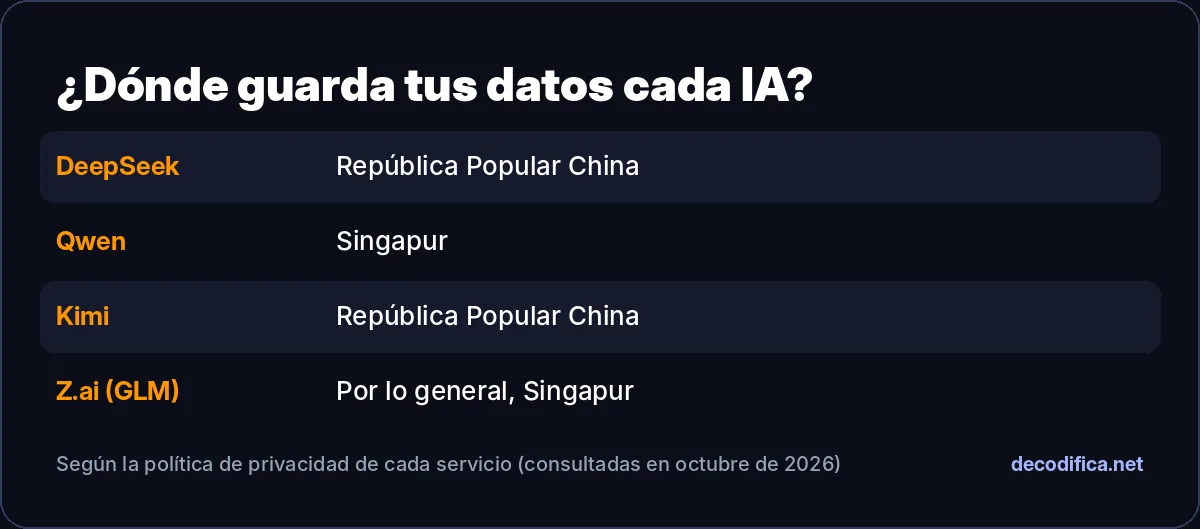
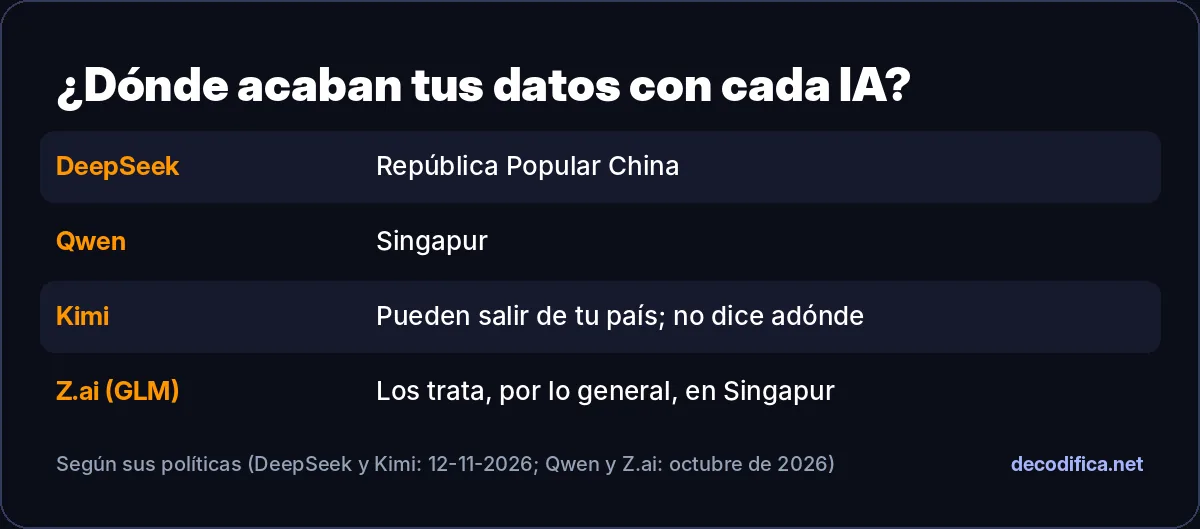
Jueves 12-11: arreglos del juez de fuentes (presentaciones, DeepSeek y Kimi), repaso y _ESTADO.md
Claude-Session: https://claude.ai/code/session_012nLXgGQ4VznBiRpxUvYC78

diff --git a/docs/repaso-jueves/2026-11-12.md b/docs/repaso-jueves/2026-11-12.md
@@ -174,7 +174,71 @@ datos:
 
 ## Juez de fuentes (docs/jueces/fuentes.md)
 
-PENDIENTE
+Tres subagentes que no escribieron los cambios abrieron todas las fuentes, uno por página. Respuesta a cada punto
+(los menores, agrupados):
+
+**IA para presentaciones** (15 puntos; varios son de texto antiguo que hoy no se había tocado)
+1. *Gamma Plus da 1.500 créditos al mes, no 1.000 (dos sitios).* **Arreglado** (comprobado en la ayuda de Gamma).
+2. *Los precios de Gamma sí se leen con el navegador sin pantalla (Plus 9 $, Pro 18 $, Ultra 90 $ al mes, anual).*
+   **No, porque** gamma.app/pricing tiene una comprobación anti-robots y no se salta (el sistema de permisos lo bloquea,
+   con razón). Sin poder abrirla en esta ejecución, esos precios no se ponen (regla 2). Sí se añade, de su ayuda, el
+   límite del plan gratis: hasta 10 diapositivas por petición.
+3. *Beautiful.ai sí genera contenido («Unlimited AI content generation», «AI writing assistant»).* **Arreglado** en el
+   resumen, su apartado, su «pega» y la última pregunta frecuente.
+4. *La columna «Idioma» de la tabla no la respalda ninguna fuente (y Beautiful.ai y Plus AI dicen lo contrario).*
+   **Arreglado**: columna quitada. El idioma se trata en su pregunta frecuente, sin cifras.
+5. *Gamma incrusta las fuentes en el .pptx; no habla de animaciones.* **Arreglado**: ahora dice lo que cambia según su
+   ayuda (degradados, esquinas de tablas, sin patrón de diapositivas), en «Limitaciones» y en la pregunta de PowerPoint.
+6. *Frases que dan a entender una prueba propia y títulos de gancho* («menos impresionante que Gamma», «esperas treinta
+   segundos», «Lo que NO te dicen», «Tabla comparativa honesta», «Cuándo SÍ vale la pena», «la diferencia entre un deck
+   aceptable y uno que impresiona»). **Arreglado**.
+7. *Tome cerró en abril de 2025, sin día 30 en las fuentes.* **Arreglado**.
+8. *Beautiful.ai Team: «40 $ por usuario» en sus preguntas y «40 $ con 3 usuarios incluidos» en la tarjeta.*
+   **Arreglado**: el artículo avisa de la contradicción.
+9. *Fechas «consultado en octubre» en las secciones revisadas hoy.* **Arreglado** en Gamma, Beautiful.ai, SlidesAI y
+   Plus AI.
+10. *Latinoamérica: falta decir que a los precios en dólares se suman impuestos.* **Arreglado** en la nota de la tabla.
+    *Que las pruebas de Beautiful.ai y Plus AI cobran solas al terminar*: **no**, no se ha podido comprobar hoy.
+11. *SlidesAI Pro cuesta 12 $ con pago mensual.* **No se añade**: desde aquí la página solo muestra el precio anual; el
+    texto ya dice «con pago anual».
+12. *Canva no se puede comprobar (403) y la portada no nombra Magic Design.* **Se deja**: el artículo ya dice que los
+    precios de Canva no se pudieron leer. Va a «Lo que no se pudo comprobar».
+13. *Detalles del tutorial y del menú Extensiones sin fuente; relleno (paso 7, «Tiempo total», conclusión).* **No hoy**:
+    el encargo del jueves es título, descripción, preguntas y enlaces; rehacer la estructura queda para un lunes (ver
+    «Para Jordi»).
+
+**DeepSeek en español** (12 puntos)
+1. *El resumen dice que las tres apps tienen español, y para Qwen no hay fuente.* **Arreglado**: solo DeepSeek y Kimi.
+2. *La política de Kimi ha cambiado (en vigor el 12-11-2026, actualizada el 05-11).* **Arreglado, y más grave de lo que
+   parecía:** la política de kimi.com es ahora solo para quien vive en China continental. Para el resto del mundo vale
+   la de kimi.ai (NOVASCENT PRIVATE LIMITED), que no dice que guarde los datos en China, sino que pueden ir a servidores
+   fuera de tu país, sin decir cuál, y que usa lo que escribes para entrenar sus modelos. Cambiados el resumen, la tabla,
+   el apartado de privacidad, «Cuándo no usarlos», las fuentes y el esquema `donde-se-guardan-tus-datos.webp` (rehecho).
+3. *Google Play muestra ahora «100 M+» descargas, no 50.* **Arreglado** (comprobado).
+4. *La tabla pone Qwen3.8 y chat.qwen.ai tiene seleccionado Qwen3.7-Plus.* **No, porque** la tabla dice el modelo más
+   reciente del repositorio oficial y que los datos de Qwen son de octubre; el repositorio no se puede abrir desde aquí.
+5. *chat.qwen.ai no tiene botón de descarga sin sesión; está en qwen.ai.* **Arreglado**: «desde la web oficial (qwen.ai)».
+6. *DeepSeek: el derecho a oponerte al entrenamiento depende de dónde vivas («may be available»).* **Arreglado** en el
+   texto y en la pregunta frecuente.
+7. *Menores:* Z.ai «trata» (no «guarda») los datos: **arreglado** en la tabla y el esquema. La frase de Mistral en la UE:
+   **arreglado** (dice que según su ayuda algunas funciones pueden sacarlos temporalmente). Armstrong habla del 91 % de la
+   plantilla: **arreglado**. La búsqueda del App Store de EE. UU. del 06-10, el botón de iOS que lleva al App Store de
+   China, el campo «Developer» en chino y el apartado de Coinbase: **se dejan** (texto de octubre, fuera del encargo).
+
+**Ficha de Mistral Vibe** (14 puntos, ninguno grave de datos)
+1. *En Team también se entrena por defecto (lo desactiva el administrador); «planes individuales» no lo dice la fuente.*
+   **Arreglado** en privacidad y en la pregunta frecuente.
+2. *«comparamos siete opciones» da a entender una prueba.* **Arreglado**.
+3. *Lo de DeepSeek (gratis, datos en China) no tenía fuente en la ficha.* **Arreglado**: la página de descargas y la
+   política de DeepSeek están ahora en sus fuentes (las dos abiertas hoy).
+4. *El precio en euros solo se ve para la UE y el Reino Unido.* **Arreglado**: lo dice y explica qué hacer desde
+   Latinoamérica.
+5. *«Privacidad Media», «Dificultad Baja» y el veredicto genérico salen de valores por defecto de la plantilla.* **No
+   hoy**: pasa en casi todas las fichas (ya se apuntó el 05-11).
+6. *Menores:* el límite de uso razonable va con el precio de Pro, el descuento es para educación superior, JetBrains no es
+   una «extensión», «probar redacción en español» choca con que el idioma no está confirmado: **arreglados**.
+
+Después de los arreglos se volvieron a pasar el preflight, el type-check y el build (sin errores; 123 páginas).
 
 ## Fuentes (abiertas el 12-11-2026)
 
@@ -193,6 +257,8 @@ PENDIENTE
 
 - **Precios de Gamma Plus y Pro:** gamma.app/pricing sigue dando 403. El artículo da los créditos de cada plan y remite
   a su web para el precio.
+- **Precios de Gamma en dólares, cobro automático al acabar las pruebas de Beautiful.ai y Plus AI y SlidesAI Pro con pago
+  mensual:** ver el juez de fuentes.
 - **Canva:** su página de precios y su ayuda de IA dieron 403 hoy. Lo que dice el artículo de Canva es del 20-10 y del
   05-11 (comparativa Gamma vs Canva).
 - **Qwen y GLM (artículo de DeepSeek):** el repositorio de Qwen en GitHub no se puede abrir desde esta sesión. El
@@ -209,5 +275,10 @@ PENDIENTE
   el 31-07). Si quieres, tras publicar puedes pedir «Solicitar indexación» en Search Console de
   `https://decodifica.net/blog/ia-crea-presentaciones-completas/`, `/blog/deepseek-app-oficial-espanol/` y
   `/herramientas/mistral-le-chat/`.
+- **El artículo de presentaciones necesita una reescritura un lunes:** hoy se han quitado los datos falsos y las frases
+  de prueba propia, pero sigue teniendo partes de relleno (el paso 7 del tutorial, «Tiempo total», la conclusión) y
+  datos de Canva sin comprobar. Es una «mejora» que encaja con el agente de los lunes.
+- **Kimi:** su política para quien vive fuera de China ya no dice que guarde los datos en China. Si alguna otra página
+  lo dice (por ejemplo la ficha de Kimi o la comparativa Kimi vs GLM), habría que revisarla; hoy no se ha tocado.
 - **Idea (no hecha):** la dirección de la ficha sigue siendo `/herramientas/mistral-le-chat/` (no se cambian direcciones
   con apariciones). Está bien así: la gente sigue buscando «le chat mistral».

diff --git a/_ESTADO.md b/_ESTADO.md
@@ -1,6 +1,6 @@
 # Estado del relanzamiento de Decodifica
 
-Última actualización: 10 de noviembre de 2026 (agente de novedades).
+Última actualización: 12 de noviembre de 2026 (agente de los jueves).
 Este archivo sirve para que cualquier sesión siguiente sepa qué está hecho, qué falta y qué ha decidido Jordi. Actualízalo al terminar cada bloque de trabajo.
 
 Repositorios:
@@ -218,3 +218,7 @@ Rama `agente/para-las-ia`. Reglas nuevas para los agentes en `docs/AGENTE-SEMANA
   - Semana que viene (semana 5): grupo A, «Claude Code sin saber programar: primeros pasos» y mejora de `claude-emails-sonar-humanos` (fuera de Google). El 07-12, herramienta del mes de diciembre: «Planes gratis de IA: qué te dan hoy».
 - **10-11-2026 (agente de novedades):** rama `agente/novedad-2026-11-10`, pull request #49 (espera a Jordi). Novedad: Claude Fable 5.2 (09-11-2026), añadida como sección a la guía `claude-ia-que-es-gratis` (no está en el plan gratis; en Pro, créditos de uso salvo la semana del 9 al 16-11, incluido hasta el 50 % del límite semanal; Max y Ultra, incluido hasta el 50 % y de 1 a 3 reinicios hasta el 08-03-2027; captura, esquema, pregunta frecuente; `modifiedDate` 10-11). Frase desfasada de `alternativas-fable-5` cambiada por una línea fechada con enlace. Nota: `docs/novedades/2026-11-10.md`; reel: `docs/redes/2026-11-10.md`.
   - Pendiente: desde el 17-11, pasar a pasado (o quitar) la oferta de Pro en la sección y en la pregunta frecuente.
+- **12-11-2026 (agente de los jueves):** rama `agente/jueves-2026-11-12`, pull request propio, fusionado por el agente si pasa preflight y build (permiso de Jordi del 06-11-2026 para los jueves). Títulos, descripciones, preguntas frecuentes y enlaces en IA para presentaciones (nuevo título «IA para presentaciones: cuáles son gratis y cuál elegir»; plan gratis de SlidesAI cambiado a 200 créditos al mes; Gamma Plus 1.500 créditos; fuera frases de prueba propia que quedaban), DeepSeek en español (título de Jordi sin tocar; 4 preguntas frecuentes, V4.1-Flash-1017, DeepSeek Harness, Kimi K3.1 Pro; la política de Kimi para fuera de China ya no dice «China») y ficha de Mistral (ahora «Mistral Vibe (antes Le Chat)»: precios, privacidad, 6 preguntas). Juez de fuentes pasado en las tres. Repaso: `docs/repaso-jueves/2026-11-12.md`.
+  - Medir hacia el 21-12-2026, solo si Google ha vuelto a leer las páginas (presentaciones no se lee desde el 31-07).
+  - Posible empeoramiento: NotebookLM vs Perplexity tras el título del 07-10 (61 → 22 apariciones en 28 días). Qwen Code y Gamma vs Canva, leídas por Google el 06-11: medir desde el informe del 16-11.
+  - Pendiente: reescritura de IA para presentaciones un lunes (relleno, Canva sin comprobar); revisar la ficha de Kimi (dice «servidores en China» según su ayuda; la política para fuera de China ya no lo dice).
